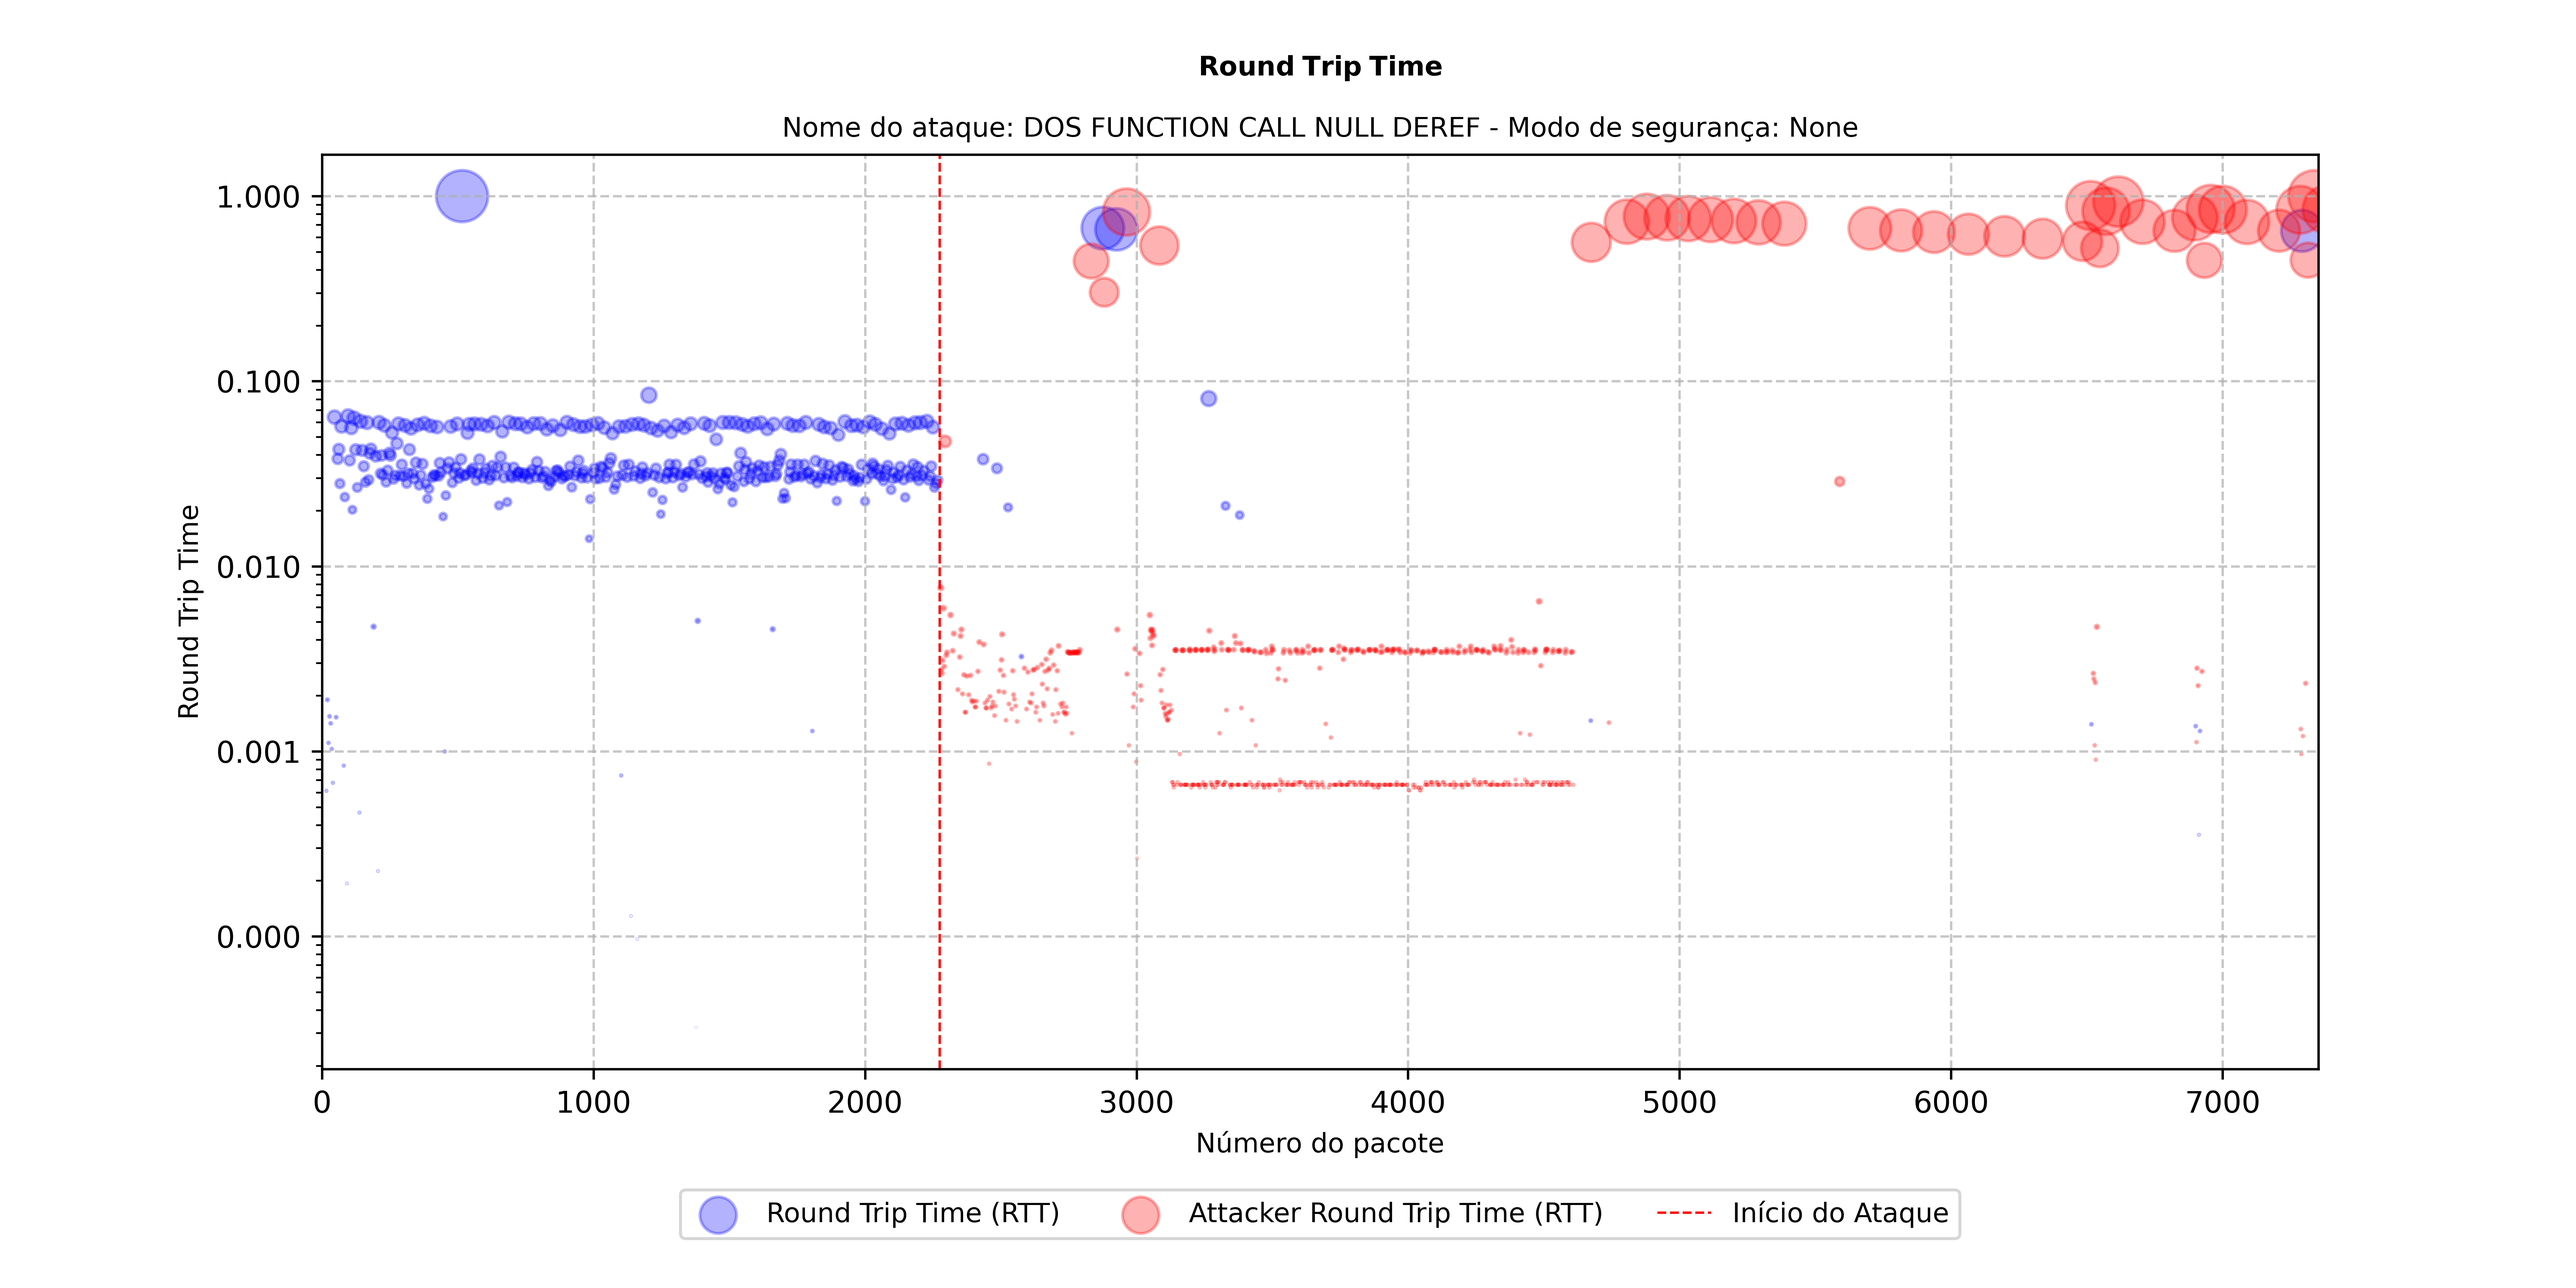
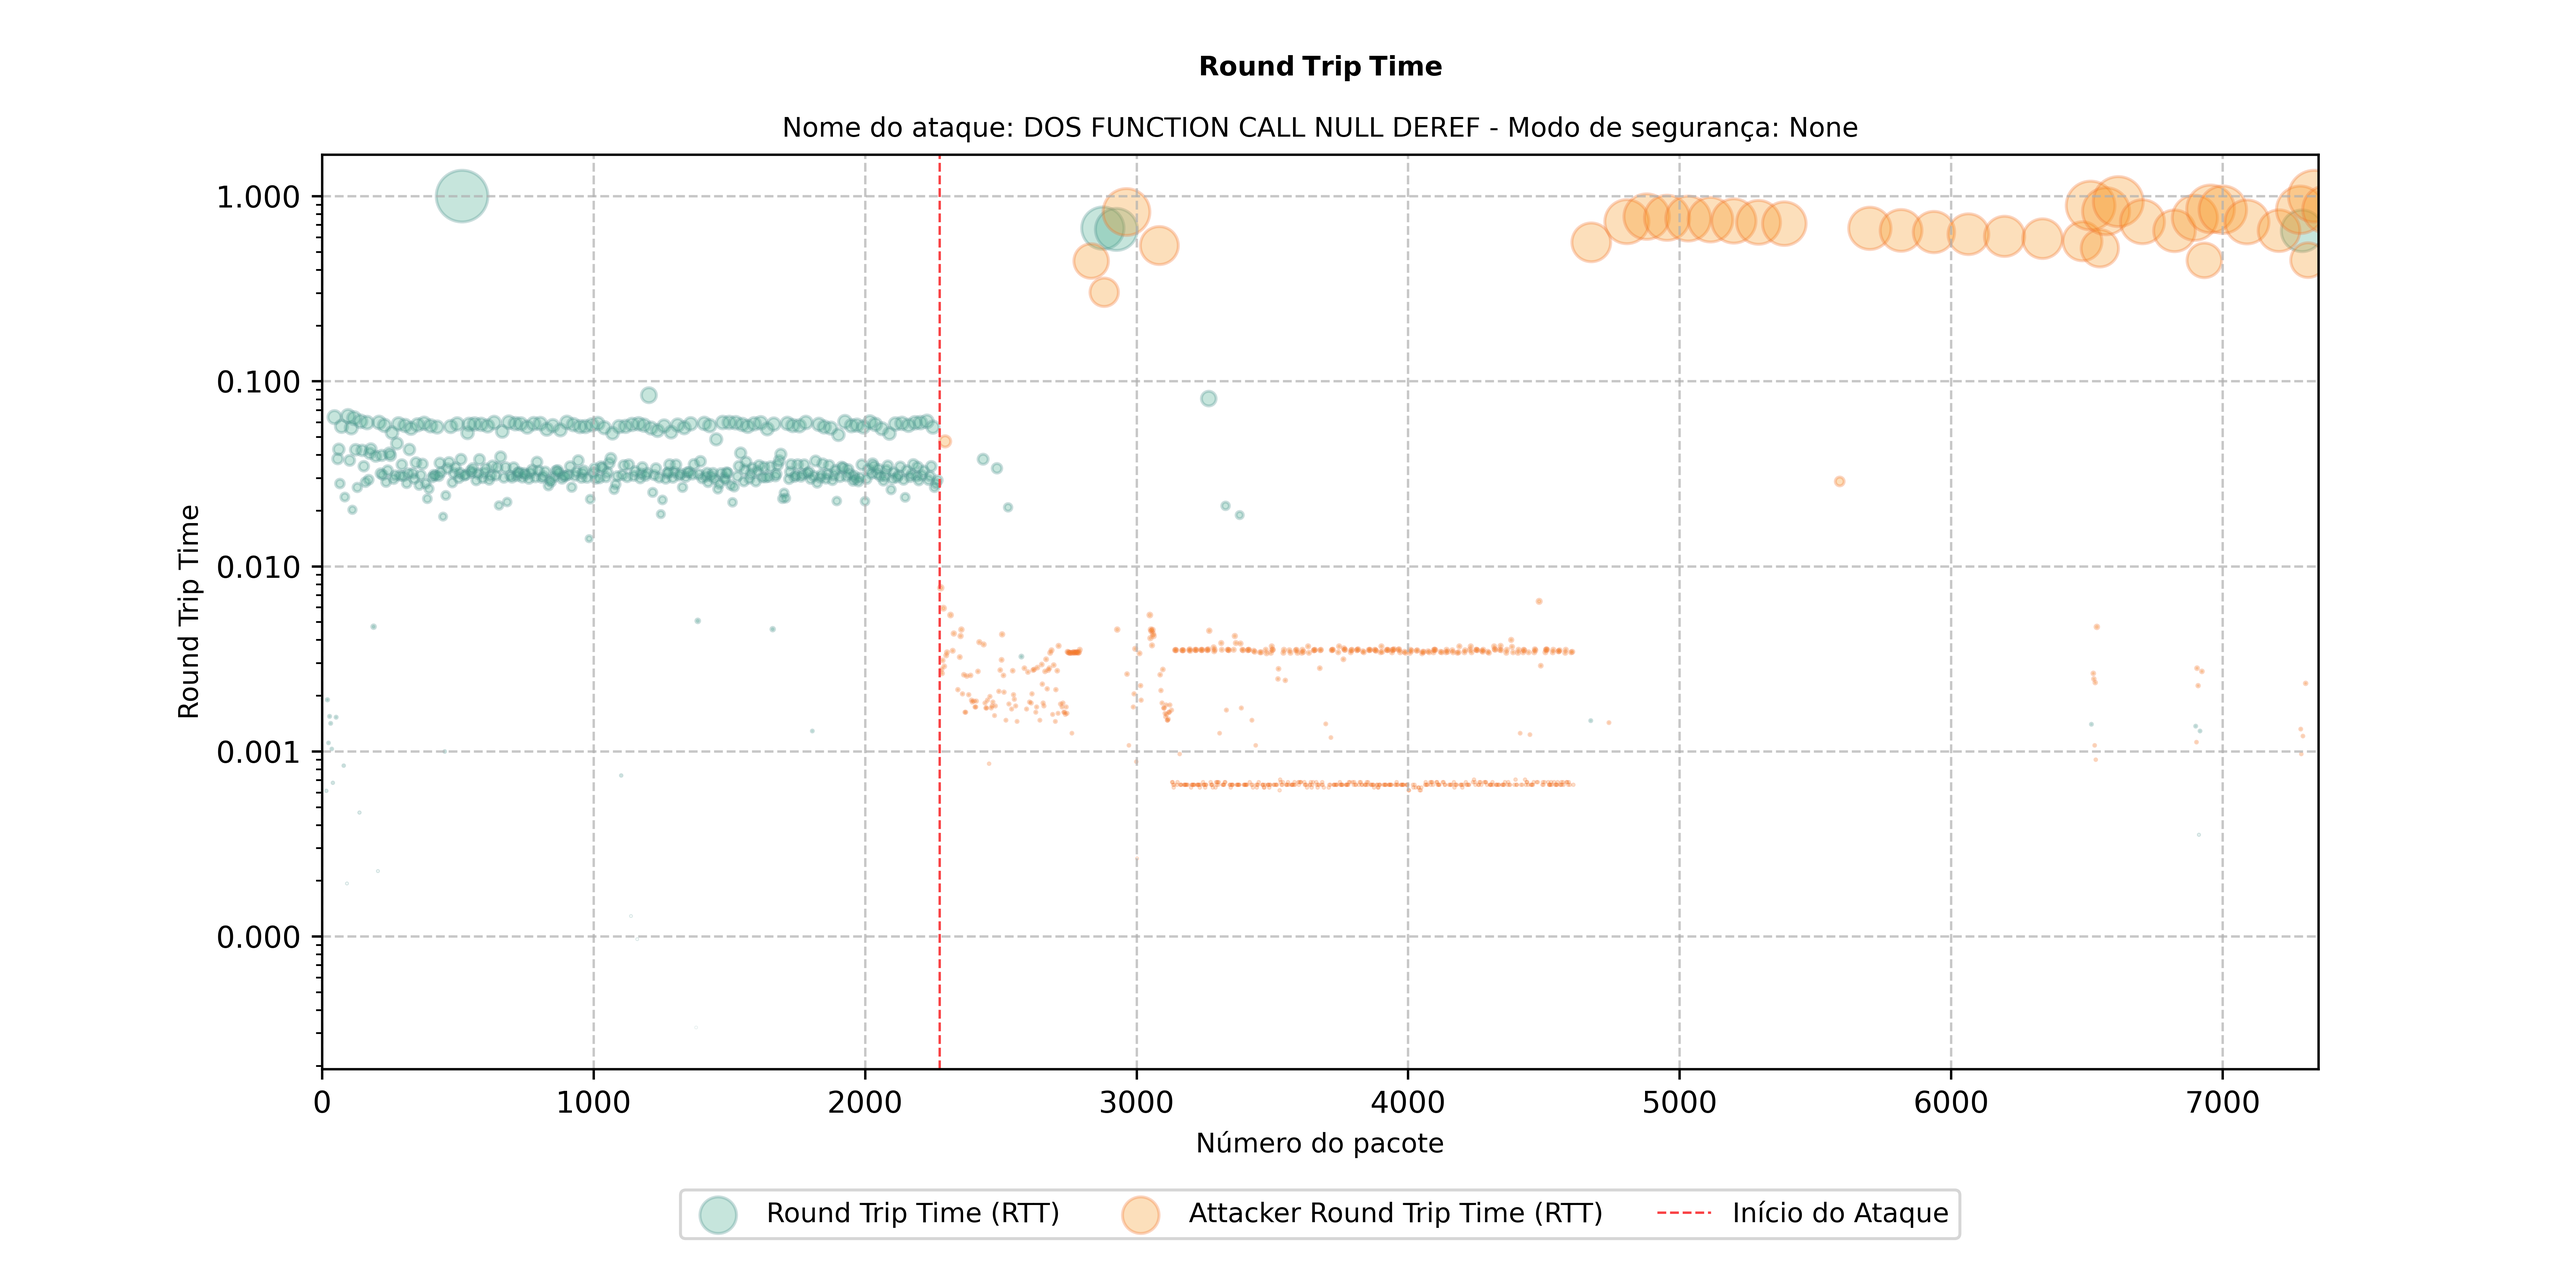
refactor(plot): change the graphs colors

diff --git a/uanalyser/plot/graphics.py b/uanalyser/plot/graphics.py
@@ -121,11 +121,13 @@ class GraphUtils:
         """
         max_value = max(values) if values else 1
         min_value = min(values) if values else 0
-        
+
         # Check if all values are the same to avoid division by zero
         if min_value == max_value:
-            return [0.5] * len(values)  # Assign a neutral normalized value (e.g., 0.5)
-        
+            return [0.5] * len(
+                values
+            )  # Assign a neutral normalized value (e.g., 0.5)
+
         return [
             (value - min_value) / (max_value - min_value) for value in values
         ]
@@ -164,13 +166,15 @@ def performance_data_axle(
                 aux.plot(
                     performance_data['Timestamp'],
                     performance_data['CPU (%)'],
-                    'g-',
+                    color='#90BE6D',
+                    linestyle='-',
                     label='CPU (%)',
                 )
                 aux.plot(
                     performance_data['Timestamp'],
                     performance_data['Memory (%)'],
-                    'm-',
+                    color='#F9844A',
+                    linestyle='-',
                     label='Memory (%)',
                 )
                 aux.set_ylabel('CPU (%) / Memory (%)', fontsize=9)
@@ -189,7 +193,12 @@ def performance_data_axle(
 
 
 def plot_performance_data(
-    seconds: list, attack: dict, filename: str, *, is_twiny: bool = True
+    seconds: list,
+    attack: dict,
+    filename: str,
+    *,
+    is_twiny: bool = True,
+    show_plots: bool = False,
 ) -> None:
     """Plot performance data.
 
@@ -198,6 +207,7 @@ def plot_performance_data(
         attack (dict): The dictionary of the attack.
         filename (str): The name of the file.
         is_twiny (bool): Flag indicating whether the performance data should be plotted on the same axis.
+        show_plots (bool): Flag indicating whether the plot should be shown.
 
     Returns:
         None
@@ -206,11 +216,11 @@ def plot_performance_data(
         >>> plot_performance_data([1, 2, 3, 4, 5, 6], {'Type': 'None', 'Name': 'DOS ATTACK EXAMPLE', 'Relative time': 32.341966, 'Packet index': 1966})  # doctest: +SKIP
     """
     fig, ax1 = plt.subplots(figsize=(12, 6))
-    ax1.plot(seconds, [0] * len(seconds), color='w', linewidth=0.5)
+    ax1.plot(seconds, [0] * len(seconds), color='#90BE6D', linewidth=0.5)
     if 'Relative time' in attack and attack['Relative time']:
         ax1.axvline(
             x=attack['Relative time'],
-            color='r',
+            color='#F94144',
             linestyle='--',
             linewidth=0.8,
             label='Início do Ataque',
@@ -227,12 +237,14 @@ def plot_performance_data(
 
     ax1.grid(True, linestyle='dotted')
     ax1 = performance_data_axle(ax1, filename, performance=True, twin=is_twiny)
-    plt.show(block=False)
     fig.savefig(
         f'{OUTPUT}/{filename}-perf.png',
         dpi=600,
     )
-    plt.close(fig)
+    if show_plots:
+        plt.show(block=False)
+    else:
+        plt.close(fig)
 
 
 def plot_throughput(
@@ -241,6 +253,7 @@ def plot_throughput(
     attack: dict,
     filename: str,
     performance: bool = False,
+    show_plots: bool = False,
 ) -> None:
     """Plot the throughput in kbps.
 
@@ -250,6 +263,7 @@ def plot_throughput(
         attack (dict): The dictionary of the attack.
         filename (str): The name of the file.
         performance (bool): Flag indicating whether performance data should be plotted.
+        show_plots (bool): Flag indicating whether the plot should be shown.
 
     Returns:
         None
@@ -262,7 +276,7 @@ def plot_throughput(
         seconds,
         throughput_kbps,
         marker='o',
-        color='b',
+        color='#277DA1',
         linewidth=0.5,
         markersize=6,
         alpha=0.5,
@@ -271,7 +285,7 @@ def plot_throughput(
     if 'Relative time' in attack and attack['Relative time']:
         ax1.axvline(
             x=attack['Relative time'],
-            color='r',
+            color='#F94144',
             linestyle='--',
             linewidth=0.8,
             label='Início do Ataque',
@@ -294,7 +308,10 @@ def plot_throughput(
         f'{OUTPUT}/{filename}-tput.png',
         dpi=600,
     )
-    plt.close(fig)
+    if show_plots:
+        plt.show(block=False)
+    else:
+        plt.close(fig)
 
 
 def plot_round_trip_time_per_packet(
@@ -306,6 +323,7 @@ def plot_round_trip_time_per_packet(
     scale_factor: float = 300.0,
     attacker_rtts: list = None,
     performance: bool = False,
+    show_plots: bool = False,
 ) -> None:
     """Plot the round trip time.
 
@@ -317,6 +335,7 @@ def plot_round_trip_time_per_packet(
         scale_factor (float): The scale factor.
         attacker_rtts (list): The list of attacker round trip times.
         performance (bool): Flag indicating whether performance data should be plotted.
+        show_plots (bool): Flag indicating whether the plot should be shown.
 
     Returns:
         None
@@ -331,10 +350,10 @@ def plot_round_trip_time_per_packet(
     ax1.scatter(
         x_values,
         normalized_y_values,
-        color='blue',
+        color='#43AA8B',
         alpha=0.3,
         s=[value * scale_factor for value in normalized_y_values],
-        edgecolors='blue',
+        edgecolors='#4D908E',
         linewidths=1,
         label='Round Trip Time (RTT)',
     )
@@ -350,10 +369,10 @@ def plot_round_trip_time_per_packet(
         ax1.scatter(
             attacker_x_values,
             normalized_attacker_y_values,
-            color='red',
+            color='#F8961E',
             alpha=0.3,
             s=[value * scale_factor for value in normalized_attacker_y_values],
-            edgecolors='red',
+            edgecolors='#F3722C',
             linewidths=1,
             label='Attacker Round Trip Time (RTT)',
         )
@@ -361,7 +380,7 @@ def plot_round_trip_time_per_packet(
     if 'Packet index' in attack and attack['Packet index']:
         ax1.axvline(
             x=attack['Packet index'],
-            color='r',
+            color='#F94144',
             linestyle='--',
             linewidth=0.8,
             label='Início do Ataque',
@@ -391,12 +410,14 @@ def plot_round_trip_time_per_packet(
     )
     # ax1.grid(True, linestyle='dotted')
     plt.subplots_adjust(bottom=0.17)
-    # plt.show(block=False)
     fig.savefig(
         f'{OUTPUT}/{filename}-rttp.png',
         dpi=600,
     )
-    plt.close(fig)
+    if show_plots:
+        plt.show(block=False)
+    else:
+        plt.close(fig)
 
 
 def plot_round_trip_time_per_second(
@@ -408,6 +429,7 @@ def plot_round_trip_time_per_second(
     scale_factor: float = 200.0,
     attacker_rtts: list = None,
     performance: bool = False,
+    show_plots: bool = False,
 ) -> None:
     """Plot the round trip time.
 
@@ -419,6 +441,7 @@ def plot_round_trip_time_per_second(
         scale_factor (float): The scale factor.
         attacker_rtts (list): The list of attacker round trip times.
         performance (bool): Flag indicating whether performance data should be plotted.
+        show_plots (bool): Flag indicating whether the plot should be shown.
 
     Returns:
         None
@@ -453,10 +476,10 @@ def plot_round_trip_time_per_second(
     ax1.scatter(
         x_values,
         normalized_y_values,
-        color='blue',
+        color='#43AA8B',
         alpha=0.3,
         s=[value * scale_factor for value in normalized_y_values],
-        edgecolors='blue',
+        edgecolors='#4D908E',
         linewidths=1,
         label='Round Trip Time (RTT) per second',
     )
@@ -477,10 +500,10 @@ def plot_round_trip_time_per_second(
         ax1.scatter(
             attacker_x_values,
             attacker_normalized_y_values,
-            color='red',
+            color='#F8961E',
             alpha=0.3,
             s=[value * scale_factor for value in attacker_normalized_y_values],
-            edgecolors='red',
+            edgecolors='#F3722C',
             linewidths=1,
             label='Attacker Round Trip Time (RTT) per second',
         )
@@ -488,7 +511,7 @@ def plot_round_trip_time_per_second(
     if 'Relative time' in attack and attack['Relative time']:
         ax1.axvline(
             x=int(attack['Relative time']),
-            color='r',
+            color='#F94144',
             linestyle='--',
             linewidth=0.8,
             label='Início do Ataque',
@@ -516,9 +539,11 @@ def plot_round_trip_time_per_second(
     )
     # plt.grid(True, linestyle='dotted')
     plt.subplots_adjust(bottom=0.17)
-    # plt.show(block=False)
     fig.savefig(
         f'{OUTPUT}/{filename}-rtts.png',
         dpi=600,
     )
-    plt.close(fig)
+    if show_plots:
+        plt.show(block=False)
+    else:
+        plt.close(fig)

diff --git a/uanalyser/main.py b/uanalyser/main.py
@@ -9,9 +9,10 @@ from preprocessing.operations import *
 SERVER_IP = '192.168.164.101'
 CLIENTS_IPS = ['192.168.164.102']
 OPCUA_PORTS = [4840]
+PCAPNG = f'{DATA_PCAPNG}/0-dos_function_call_null_deref.pcapng'
 
 
-def main(pcapng_file):
+def main(pcapng_file, *, show_plots=False):
     """
     Entry point of the program.
 
@@ -94,7 +95,9 @@ def main(pcapng_file):
     # Check if performance data CSV file exists before plotting performance data
     csv_file = f'{DATA_PERF}/{filename}.csv'
     if os.path.exists(csv_file):
-        plot_performance_data(seconds, attack, filename, is_twiny=False)
+        plot_performance_data(
+            seconds, attack, filename, is_twiny=False, show_plots=show_plots
+        )
 
     plot_round_trip_time_per_packet(
         rtts_client_server,
@@ -103,6 +106,7 @@ def main(pcapng_file):
         filename,
         attacker_rtts=rtts_attacker_server,
         performance=False,
+        show_plots=show_plots,
     )
     plot_round_trip_time_per_second(
         rtts_client_server,
@@ -111,11 +115,20 @@ def main(pcapng_file):
         filename,
         attacker_rtts=rtts_attacker_server,
         performance=False,
+        show_plots=show_plots,
     )
-    plot_throughput(throughput_kbps, seconds, attack, filename, performance=False)
+    plot_throughput(
+        throughput_kbps,
+        seconds,
+        attack,
+        filename,
+        performance=False,
+        show_plots=show_plots,
+    )
 
-    # # Don't close the plot window
-    # plt.show()
+    # Don't close the plot window
+    if show_plots:
+        plt.show()
 
 
 def process_all_pcapng_files(data_dir):
@@ -136,8 +149,9 @@ def process_all_pcapng_files(data_dir):
         # PCAPNG = os.path.join(data_dir, elem)
         pcapng_file = os.path.join(data_dir, elem)
         print(f'Processing {pcapng_file}')
-        main(pcapng_file)
+        main(pcapng_file, show_plots=False)
 
 
 if __name__ == '__main__':
-    process_all_pcapng_files(DATA_PCAPNG)
+    # process_all_pcapng_files(DATA_PCAPNG)
+    main(PCAPNG, show_plots=True)
